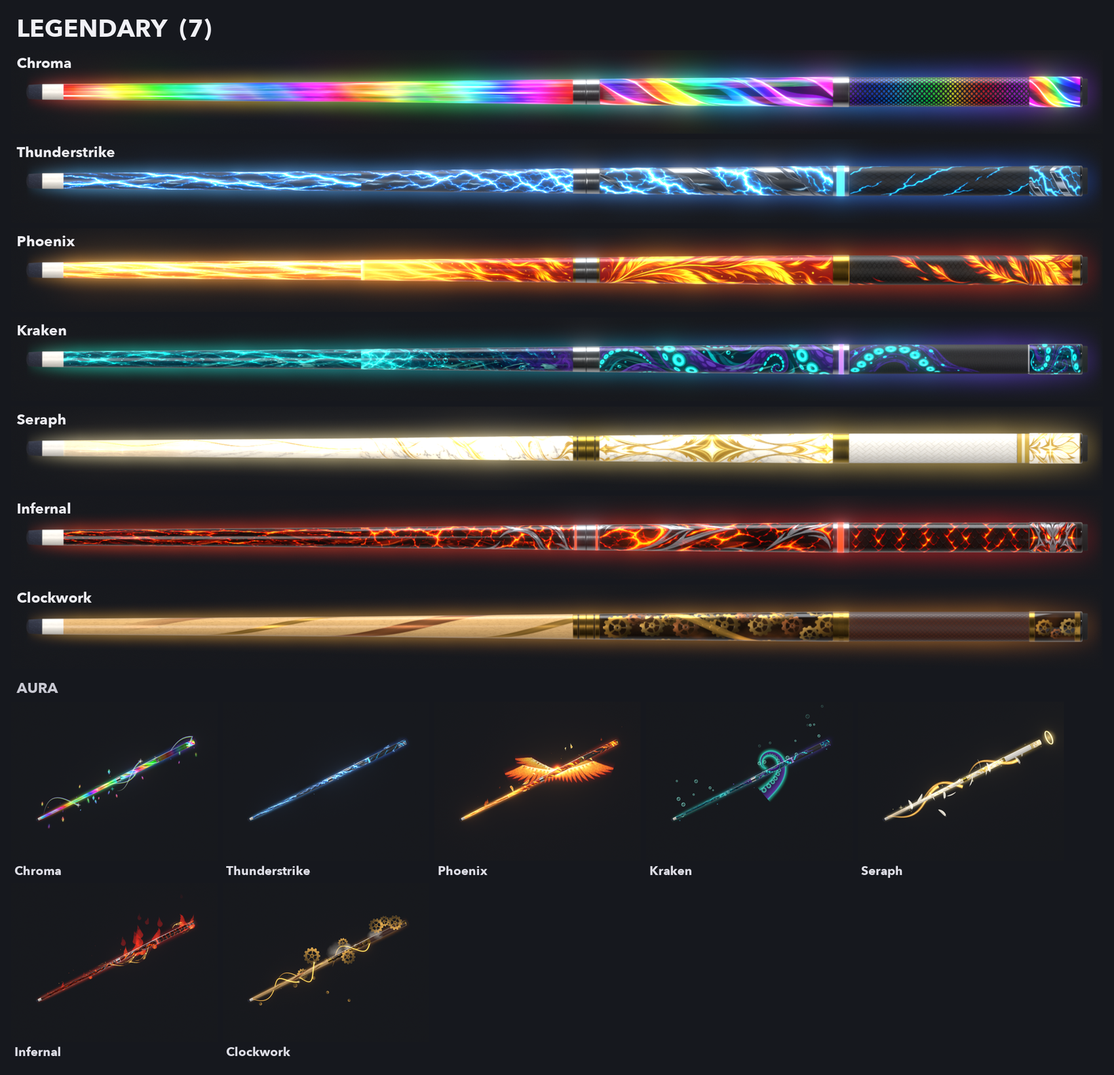
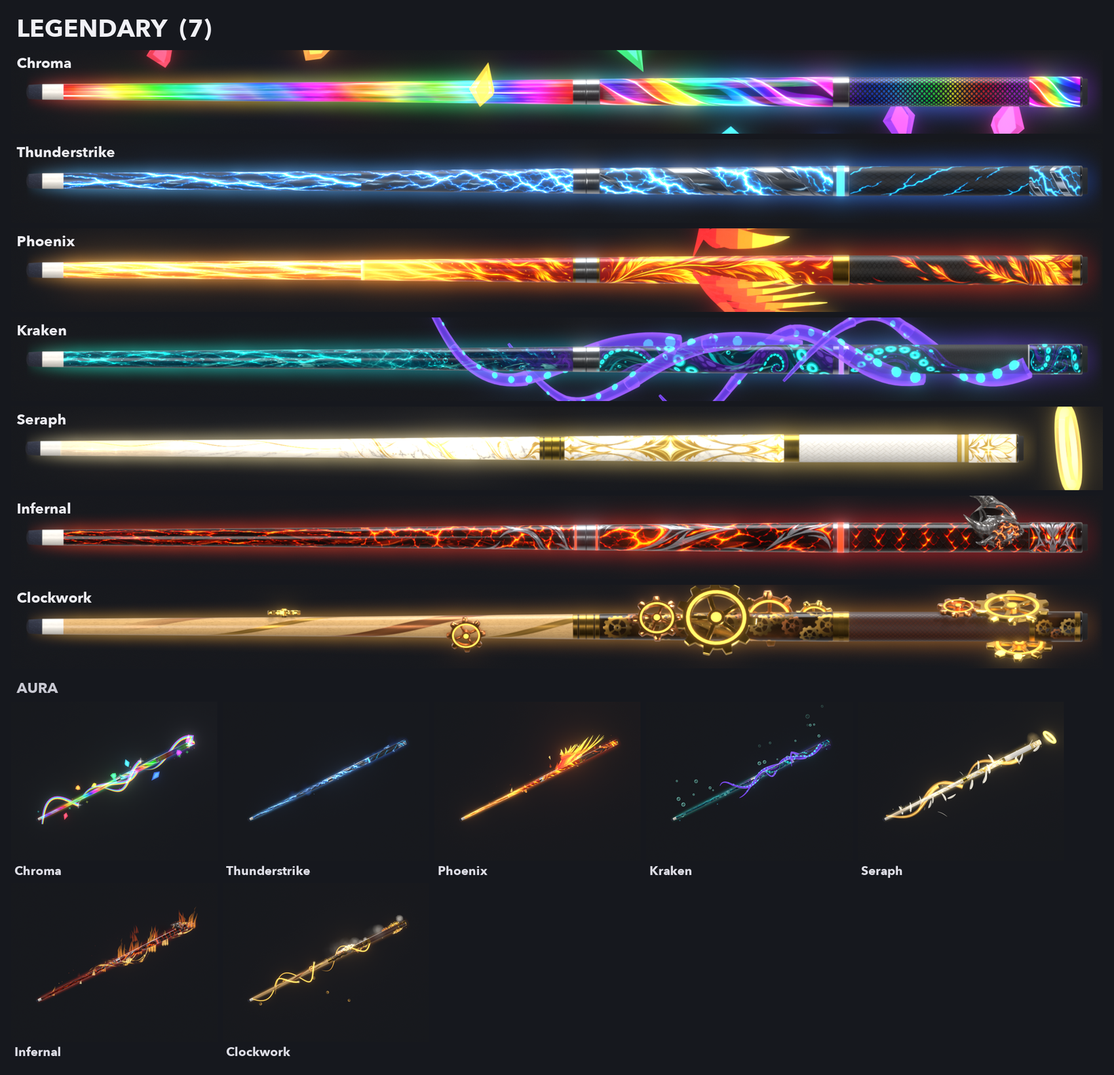
Cue skins: trail colours hold over the felt (deep reds fully blended, Master violet and wider), review rows final, tier sheets regenerated

diff --git a/tools/cue_trail_pass.py b/tools/cue_trail_pass.py
@@ -35,6 +35,10 @@ PLAIN_LE = 0.5             # untextured trails: blended enough that their colour
 WARM_LE = 0.2              # warm trails (red, orange, gold): nearly all blended, see warmth()
 WARM_RB = 80               # warm: red the strongest channel of the seen colour, above blue by this
 CORE_WIDTH = 0.2           # of the trail's width
+RED_BRIGHTNESS = 1.2       # deep red trails: see deep_red()
+# textured trails whose body is a dark colour: added onto the bright felt it vanished and only the
+# pale centre showed (Master read as a thin white line), so mostly blended
+BLENDED = {'master_cue': 0.35}
 # dark trails: a black body that must read as black (their brightness comes from the core); named
 # rather than judged from LightEmission, which the warm cap below lowers
 DARK = {'eclipse', 'infernal', 'kraken', 'void', 'grandmaster_cue'}
@@ -118,7 +122,22 @@ def apply(skin):
     core['LightEmission'] = WARM_LE if is_warm or is_warm_rgb(core['Color']) else CORE_LE
     core['Brightness'] = CORE_BRIGHTNESS
     tr['Core'] = core
+    if skin.get('id') in BLENDED:
+        tr['LightEmission'] = BLENDED[skin['id']]
+    if deep_red(tr):
+        # a deep red trail read pink over the blue felt even at WARM_LE (Brightness above 1 pushes
+        # it toward the additive look): fully blended and no brighter than its colour
+        tr['LightEmission'] = 0.0
+        tr['Brightness'] = min(tr['Brightness'], RED_BRIGHTNESS)
+        core['LightEmission'] = 0.0
+        core['Brightness'] = RED_BRIGHTNESS
     return True
+
+
+def deep_red(tr):
+    """Red the trail's seen colour, green and blue both well below it (not orange or pink)."""
+    r, g, b = seen_colour(tr)
+    return r > 180 and g < 0.3 * r and b < 0.3 * r
 
 
 def main():

diff --git a/tools/cue_vfx_upgrades.py b/tools/cue_vfx_upgrades.py
@@ -941,6 +941,8 @@ def master_cue(d):
                 'wider glow.')
     # a textured trail's core had the white tint and drowned the texture's colour: its own colour
     d['vfx']['Style']['Trail']['Core']['Color'] = [205, 150, 255]
+    d['vfx']['Style']['Trail']['Colors'] = [[205, 150, 255], [175, 110, 255]]   # untinted it read white
+    d['vfx']['Style']['Trail']['WidthStuds'] = 0.5     # its texture is solid only in the middle
 
 
 def grandmaster_cue(d):

diff --git a/docs/prompts/CUE_SKINS_REVIEW.md b/docs/prompts/CUE_SKINS_REVIEW.md
@@ -37,14 +37,14 @@ the concept crops, **mix** = both. Particle rates are per cue (in hand); the bac
 | blaze | Blaze | Rare | skins/blaze/sheet.png, clip.mp4 | proc: charred charcoal plates with wood grain split by glowing orange ember cracks (forearm, sleeve), dark brown wood shaft with faint ember cracks warming toward the joint, steel collar, glowing orange ring, black crosshatch grip; emissive flickering 1.3-2.3. Aura: flame tongues lick up the whole cue (a 16-frame flame flipbook drawn by script, upright, additive), a flickering orange heat-glow Beam round its outline, embers rising: 20/s (back 10); a flickering firelight. Trail: wisp tinted orange. **Upgraded 2026-09-30:** The flame tongues 40% bigger and longer-lived so they run together, bigger embers, a wider heat glow. The trail 0.9 s with a bright core; the pocket gust mostly in the skin's colours. | |  |
 | frostbite | Frostbite | Rare | skins/frostbite/sheet.png, clip.mp4 | mix: AI forearm (ice glass with frost feathers, cracks and snowflakes), AI butt (frosted grey-white wrap, glacier-shard sleeve); procedural pale icy shaft with a faint glowing crack network; silver collar and ring; the whitest frost glows (0.6-1.0). Aura: cold mist rolls off and sinks, six-armed snowflakes drift down turning, frost glints: 18/s (back 9); an icy frost stream curls round the cue (a curved Beam a script turns). Trail: wisp tinted ice blue. **Upgraded 2026-09-30:** Two icy ribbons of frost wind round the cue, snowflakes nearly twice the size, bigger glints. The trail 0.9 s with a bright core; the pocket gust mostly in the skin's colours. | |  |
 | nature | Nature | Rare | skins/nature/sheet.png, clip.mp4 | AI (all four long panels): light wood wrapped in spiralling vines with leaves and white flowers from shaft to sleeve, a moss wrap, green and yellow rings; steel collar. Aura: leaves tumble down (a 4-frame tumbling flipbook), white blossoms fall turning, pollen floats up: 15.5/s (back 7.75); a green vine of light winds round the cue and slowly turns (two curved Beams: a bright line and a soft haze). Trail: wisp tinted leaf green. **Upgraded 2026-09-30:** Two glowing green vines twine round the cue, leaves and blossoms bigger and more of them. The trail 0.9 s with a bright core; the pocket gust mostly in the skin's colours. | |  |
-| candy | Candy | Rare | skins/candy/sheet.png, clip.mp4 | proc: red-and-white candy-cane spiral with sugar glitter (tip to ring), steel collar, mint / red rings, white sugar-grain wrap, red sleeve with a peppermint pinwheel facing each side, black end. Aura: rainbow sprinkles tumble off and fall (a 16-sprinkle sheet, a random sprinkle per particle), sugar sparkles: 18/s (back 9); a red-and-white candy-stripe ribbon spirals round the cue tip to butt and back (an Orbiter). Trail: wisp tinted red. **Upgraded 2026-09-30:** Two candy-stripe ribbons winding round the cue (wider, longer), sprinkles and sugar sparkles bigger, a faint pink sugar haze. The trail 0.9 s with a bright core; the pocket gust mostly in the skin's colours. | |  |
+| candy | Candy | Rare | skins/candy/sheet.png, clip.mp4 | proc: red-and-white candy-cane spiral with sugar glitter (tip to ring), steel collar, mint / red rings, white sugar-grain wrap, red sleeve with a peppermint pinwheel facing each side, black end. Aura: rainbow sprinkles tumble off and fall (a 16-sprinkle sheet, a random sprinkle per particle), sugar sparkles: 18/s (back 9); a red-and-white candy-stripe ribbon spirals round the cue tip to butt and back (an Orbiter). Trail: wisp tinted red. **Upgraded 2026-09-30:** Two candy-stripe ribbons winding round the cue (wider, longer), sprinkles and sugar sparkles bigger, a faint pink sugar haze. The trail 0.9 s with a bright core; the pocket gust mostly in the skin's colours. The trail fully blended so its red stays red over the blue felt (it read pink). | |  |
 | phantom | Phantom | Rare | skins/phantom/sheet.png, clip.mp4 | mix: AI forearm and sleeve (ghostly teal glass with glowing spirit wisps and a small cartoon ghost; forearm take 2), procedural milky teal shaft with glowing wisps, pale pebbled wrap, silver collar; emissive 0.9-1.7. Aura: small cartoon ghosts rise wobbling and fade (a 4-frame ghost flipbook drawn by script), teal ghost-smoke and spirit motes: 11.3/s (back 5.65); two teal spirit wisps curl round the cue in opposite directions (curved Beams a script turns). Trail: wisp tinted teal. **Upgraded 2026-09-30:** Two pale spirit trails drift round the cue, the ghosts a third bigger and more of them, more smoke and motes. The trail 0.9 s with a bright core; the pocket gust mostly in the skin's colours. | |  |
 | tidal | Tidal | Rare | skins/tidal/sheet.png, clip.mp4 | mix: AI forearm (deep ocean water, caustics, a silver wave line round a pearl, given a pearl lustre) and sleeve (a breaking wave); procedural deep-blue-to-teal caustic shaft; sea-foam stingray-bead wrap; silver collar; the caustics glow faintly. Aura: soap bubbles wobble up, swell and pop, droplets fall: 14/s (back 7); two ribbons of sea water swirl round the cue tip to butt and back (Orbiters). Trail: wisp tinted teal. **Upgraded 2026-09-30:** Three wider water ribbons swirl round the cue, bigger bubbles and droplets, a sea-blue haze. The trail 0.9 s with a bright core; the pocket gust mostly in the skin's colours. | |  |
 | sakura | Sakura | Rare | skins/sakura/sheet.png, clip.mp4 | AI (shaft, shaft end, forearm, sleeve): black lacquer with gold-outlined cherry branches and pink blossoms (gold as metal, blossoms glowing softly); procedural pink pebbled wrap; gold collar and rings. Aura: cherry petals drift and spin down turning over (a 4-frame tumbling flipbook), pink glow motes: 17/s (back 8.5); a pink silk ribbon of light loops slowly round the cue (an Orbiter). Trail: wisp tinted pink. **Upgraded 2026-09-30:** Two glowing silk ribbons now, wider and longer, petals nearly twice as big, a faint blossom haze. The trail 0.9 s with a bright core; the pocket gust mostly in the skin's colours. | |  |
 | shooting_star | Shooting Star | Epic | skins/shooting_star/sheet.png, clip.mp4 | mix: AI forearm (gold four-point compass star with gold comet arcs on a starry navy sky) and AI sleeve (gold star framed by gold arcs), turned 45 degrees to face the viewer, the gold as metal and glowing softly; procedural starry navy shaft with two gold swooshes into the joint; navy snakeskin wrap; gold ring lines; silver collar. Moving: the starfield drifts (overlay Beams of pin stars scrolling along the shaft, forearm and sleeve) and the gold breathes (EmissiveStrength 1.1-1.8). Aura: five shooting stars (Orbiters with a star head and a long gold Trail) fly butt to tip on looping arcs; two gold star streams arc round the cue (curved Beams); gold twinkles, streaking stars and gold dust: 28/s (back 14). Trail: wisp tinted gold. Pocket: gold-tinted gust plus 26 gold five-point stars, twinkles, a gold ring and flash. **Upgraded 2026-09-30:** brighter, longer, wider comet trails, bigger twinkles and star streams; the trail standard (long, bright, its own colour). | The concept's trail is sparkly; plan.json lists no trail, so it is the tinted wisp. |  |
 | magma | Magma | Epic | skins/magma/sheet.png, clip.mp4 | proc: black volcanic rock (domed, pitted, glossy like obsidian) split by molten cracks that run hotter and cooler, all along the cue (sparse near the tip), a rocky wrap with few live cracks, a glowing lava ring between red bands, silver collar. Moving: molten heat crawls along the cue (overlay Beams of soft hot patches and veins) and the lava breathes (EmissiveStrength 1.3-2.5 over 2.6 s). Aura: lava drips fall from under the cue, embers rise, flames lick up, dark smoke rolls up as heat haze: 30/s (back 15); two warm flickering lights. Trail: a molten ribbon (cracked-lava texture) with a hot core and embers shed by the ball (24/s). Pocket: lava-tinted gust plus molten globs thrown up and falling back, a flame burst, embers, smoke, an orange ring and flash. **Upgraded 2026-09-30:** the flames are flame tongues in hellfire colours (the tinted fire sheet read as drops), bigger and denser; bigger lava drips; the trail standard (long, bright, its own colour). | The concept's flames are bigger; ours are kept smaller than Blaze's so the two read differently. |  |
 | toxic | Toxic | Epic | skins/toxic/sheet.png, clip.mp4 | proc: acid-green goo glowing through dark glass, full of ringed bubbles (shaft, the back of the forearm, the sleeve window between black rims); black-and-yellow hazard stripes over the front of the forearm; black snakeskin wrap crossed by two yellow helical bands; glowing yellow ring; silver collar. Moving: bubbles rise toward the tip (overlay Beams of ring bubbles) and the goo's glow pulses (1.2-2.0 over 1.8 s). Aura: big green bubbles rise, wobble and pop (a bubble-to-pop flipbook), goo drips fall, green fumes rise: 23/s (back 11.5); a faint green halo Beam; a green light. Trail: a dripping goo ribbon with a pale core, goo drops left on the cloth (14/s). Pocket: default gust. **Upgraded 2026-09-30:** bigger, denser bubbles and fumes, bigger goo drips, a green haze; the trail standard (long, bright, its own colour). | The concept's hazard stripes cut diagonally; ours end on a wave so the cut joins round the cue. |  |
-| blood_moon | Blood Moon | Epic | skins/blood_moon/sheet.png, clip.mp4 | proc: black lacquer with crimson smoke and bright curling filaments (thickening to the joint on the shaft), black snakeskin wrap with three thin glowing red lines, glowing red rings, sleeve with red clouds and a red full moon (maria and craters) on each side, silver collar. Moving: red mist drifts (overlay Beams of red smoke) and the glow swells slowly (1.1-2.0 over 5 s). Aura: crimson mist billows up all along (Bloodlit-style), red motes rise, two red tendrils curl round the cue (curved Beams a script turns), a red glow over the moon: 18.8/s (back 9.4); a red light. Trail: wisp tinted crimson. Pocket: crimson gust plus a red moon rising out of the pocket, three crimson rings pulsing out like a heartbeat, red mist, a red flash. **Upgraded 2026-09-30:** the red mist read as blobs: gone; red flame tongues lick off the cue and red arcs crackle round it (the concept's red energy); the trail standard (long, bright, its own colour). | |  |
+| blood_moon | Blood Moon | Epic | skins/blood_moon/sheet.png, clip.mp4 | proc: black lacquer with crimson smoke and bright curling filaments (thickening to the joint on the shaft), black snakeskin wrap with three thin glowing red lines, glowing red rings, sleeve with red clouds and a red full moon (maria and craters) on each side, silver collar. Moving: red mist drifts (overlay Beams of red smoke) and the glow swells slowly (1.1-2.0 over 5 s). Aura: crimson mist billows up all along (Bloodlit-style), red motes rise, two red tendrils curl round the cue (curved Beams a script turns), a red glow over the moon: 18.8/s (back 9.4); a red light. Trail: wisp tinted crimson. Pocket: crimson gust plus a red moon rising out of the pocket, three crimson rings pulsing out like a heartbeat, red mist, a red flash. **Upgraded 2026-09-30:** the red mist read as blobs: gone; red flame tongues lick off the cue and red arcs crackle round it (the concept's red energy); the trail standard (long, bright, its own colour). The trail fully blended so its red stays red over the blue felt (it read pink). | |  |
 | prism | Prism | Epic | skins/prism/sheet.png, clip.mp4 | proc: cut crystal: a shaft of flat facets from deep blue to white with rainbow fire on a few, bright facet edges; forearm (two diamonds) and sleeve (one) a satin silver lattice holding diamond-cut gems with star glints; pearly white snakeskin wrap; silver collar and ring; black end. Moving: rainbow streaks race through the crystal (overlay Beams of slanted spectral bars) and the fire pulses (1.1-1.9). Aura: rainbow prism glints blink all over, faceted shards float and turn, two rainbow refraction streaks spiral up and down (Orbiters with a spectrum Trail): 21/s (back 10.5); a cool light. Trail: wisp tinted ice. Pocket: ice/pink/mint gust plus 24 crystal shards, rainbow glints, spectral rays, a white ring and flash. **Upgraded 2026-09-30:** bigger crystal shards and glints, four refraction ribbons with long spectrum tails, a pale haze; the trail standard (long, bright, its own colour). | The crystal is painted, not see-through (Roblox's SurfaceAppearance is opaque here). |  |
 | aurora | Aurora | Epic | skins/aurora/sheet.png, clip.mp4 | proc: a dark night-sky cue with green, teal, blue and violet aurora ribbons with silky streaks from shaft to sleeve, faint stars, black snakeskin wrap, an iridescent glowing ring, silver collar. Moving: the ribbons flow (overlay Beams of aurora ribbons scrolling along) and breathe (1.2-2.0 over 4 s). Aura: three aurora ribbons spiral round the cue (Orbiters trailing long aurora-textured Trails), soft light motes and sparkles: 19/s (back 9.5); a teal light. Trail: a wide aurora-banded ribbon with a teal core and motes (12/s). Pocket: default gust. **Upgraded 2026-09-30:** four ribbons (one more), twice as wide and further out, bigger motes, a green-to-violet veil of light; the trail standard (long, bright, its own colour). | |  |
 | disco | Disco | Epic | skins/disco/sheet.png, clip.mp4 | proc: satin mirror tiles shaft to sleeve (smaller on the shaft), a few catching a white reflection, clumps lit pink, cyan, yellow and blue and glowing; black wrap full of multicolour glitter; mirror-tiled glowing ring; silver collar. Moving: coloured spots sweep across the mirrors (overlay Beams, the sleeve's the other way) and the lit tiles pulse on a 120 bpm beat. Aura: four coloured light spots circle the cue fast while drifting up and down (Orbiters with glowing heads), white mirror glints, coloured specks turning in the air: 28/s (back 14); two coloured lights on the beat. Trail: wisp tinted pink. Pocket: pink/cyan/yellow gust plus 40 pieces of confetti, coloured light rays, a pink ring and white flash. **Upgraded 2026-09-30:** bigger light specks and mirror glints, the spotlights brighter with longer tails; the trail standard (long, bright, its own colour). | The concept's forearm mirrors are cut in diamonds; ours are square tiles all along, like a mirror ball. |  |
@@ -61,14 +61,14 @@ the concept crops, **mix** = both. Particle rates are per cue (in hand); the bac
 | apex | Apex | Mythic | skins/apex/sheet.png, clip.mp4 | mix: OpenAI on all four long panels (brushed steel shaft with angular orange stripes and cyan light lines, black carbon forearm of orange armour plates and cyan circuit strips, a black hex-scale grip, a gunmetal sleeve with an orange band), gunmetal joint with two glowing cyan bands, glowing cyan ring. **3D piece** (pieces/apex, 9.4k tris, scripted): a robotic claw arm on the butt: gunmetal housing with bevelled orange armour plates, cyan light slots, amber lights, three thruster vents, a cyan lens in a turning notched bezel, three two-jointed claws (orange armour, steel talons with cyan edges) that flex open and snap shut every 3 s. Moving: the claw clicks, thrusters flare back along the cue (orange jet flames), a flickering vent light, pulsing cyan emissive. Aura 40/s: holographic HUD rings slide along the cue lying round it (cyan tip to butt, orange butt to tip, own ring textures, VelocityPerpendicular), scan pulses open along it, cyan data motes, orange embers, two circuit-trace runners (Orbiters), cyan glow. Trail: jet exhaust (own texture: cyan core with shock diamonds in orange flame), cyan and orange afterimage rings, sparks. Pocket 1.5 s: a targeting reticle closes in and locks (own 16-frame flipbook), then the blast: a cyan energy column, orange and cyan shards, a HUD ring, sparks, cyan flash. **Upgraded 2026-09-30:** twice the HUD rings, larger and brighter (five or six along the cue at once), twice the orange embers from the forearm back, thicker circuit-trace runners; ball trail 1.2 s with a bright core, the afterimage rings bigger and hanging on longer. | Three claws, not the concept's four; the HUD rings are particles, so they appear and slide rather than stand still round the cue. |  |
 | eclipse | Eclipse | Secret | skins/eclipse/sheet.png, clip.mp4 | mix: OpenAI on all four long panels (glossy black obsidian twisted with black-chrome ribbons and a winding molten-gold line, a forearm of obsidian and chrome ribbons veined with molten gold, a black engraved grip with gold cracks, a black sleeve with gold bands), chrome collar with gold bands, gold ring, black end; the molten gold glows and swells. **3D piece** (pieces/eclipse, 16.6k tris, scripted): a floating glossy black sphere past the butt on a black cup with gold rings and four slender gold prongs, two glowing orbit rings precessing round it, a cratered silver moon orbiting it, obsidian shards drifting round the mount. Moving: the corona blazes (own corona texture on camera-facing particles centred on the sphere, ZOffset its radius, so it rings the outline from every side) and solar prominences loop up off the rim and snap (own 16-frame flipbook). Aura 40.5/s: corona and flares, corona sparks, gold sparks along the cue, gold-lit obsidian chips drifting, the air darkening slightly (black smoke), three gold orbit loops with small eclipses at their heads (Orbiters), gold glow and light. Trail: half gold, half black light (own texture), obsidian chips, gold sparks, small eclipses. Pocket 1.5 s: a dark ring pulses out flat over the pocket twice, a black eclipse swells above it and its corona bursts with prominences, a gold light column, obsidian shards and sparks blast out, gold ring, gold flash. **Upgraded 2026-09-30:** molten-gold lightning crawling and leaping over the whole cue (Arcs), gold fire and a faint gold haze round the forearm and butt, the orbit rings three times wider with brighter trails, smooth 64-frame flares; ball trail 1.2 s with a bright core and gold fire peeling off the ball; pocket: the black eclipse now fills its corona in front of the gold column, radiating gold light streaks instead of prominences. **Reworked 2026-09-30 (designer: space, orbital, galaxy vibes; the gold lightning was lazy):** the Arcs and gold fire are gone; the eclipse sphere is bigger (radius 0.36) in front of a slowly turning spiral galaxy glow; four gold orbital rings circle the cue tilted every way like an atom's orbits, each glowing, precessing, with a planet running round it, and an asteroid belt of ten dark rocks orbits the cue, tumbling (all 3D in the piece); twinkling stars and warm nebula haze; longer orbit trails. **Giant eclipse 2026-09-30 (designer, the concept's aura):** behind the cue's back half a giant eclipse about half the cue across (a black disc 3.6 studs wide in a razor-thin white-gold ring, fiery wisps churning off it; camera-facing sprites made for it), the galaxy turning behind it; two huge gold orbits sweep round the cue and the eclipse, turning slowly (3D). Gold sparks 18 to 16 a second to stay within 60. | The corona is particles, not part of the 3D piece (a ring round a sphere only reads from one side); the concept's small eclipses along the forearm are the Orbiter heads, not painted. |  |
 | starter_cue | Starter Cue | Exclusive | skins/starter_cue/sheet.png, clip.mp4 | mix: cream maple shaft with four slim sky-blue points edged in white and small white diamonds (proc), OpenAI forearm (sky-blue gloss with white points and a white diamond) and butt (a yellow knurled grip, a white sleeve with blue points and a little 8-ball emblem), silver collar, glowing blue ring, black end. VFX as plan.json lists: the blue ring, the wisp tinted blue. | The concept sheet also draws a blue aura, trail and pocket burst; plan.json (which the tier rules follow for these cues) lists only the ring and a tinted wisp, so that is what it has. |  |
-| vip_cue | VIP Cue | Exclusive | skins/vip_cue/sheet.png, clip.mp4 | mix: OpenAI on all four long panels (black lacquer with gold swirls and a thin iridescent line, gold art-deco diamond frames with holographic gems, a black quilted grip with gold stars, a gold-framed gem on the sleeve), gold collar, a gold crown emblem on the butt face. Moving: one white glowing ring whose EmissiveTint a script turns round the hue wheel every 3 s (the gems glow a little and shimmer with it). Aura 27/s: gold glitter, rainbow motes, gold crystal diamonds floating (own sprite), two gold loops with rainbow edges (Orbiters), a soft gold glow. Trail: a gold wisp with a rainbow edge (own texture), gold sparkles. Pocket: a small gold crown springs up out of the pocket (own sprite), gold diamonds and sparkles, a gold ring. **Upgraded 2026-09-30:** The gold loops wider with longer tails, bigger glitter, shimmer and diamonds, a wider glow. The trail 1.0 s with a bright core. | The OpenAI panels came out a flatter, more graphic style than the concept (two takes); the gold is real metal in the maps, so it still shines. The crown emblem is on the butt face; the concept's sleeve has a gem, which it keeps. |  |
+| vip_cue | VIP Cue | Exclusive | skins/vip_cue/sheet.png, clip.mp4 | mix: OpenAI on all four long panels (black lacquer with gold swirls and a thin iridescent line, gold art-deco diamond frames with holographic gems, a black quilted grip with gold stars, a gold-framed gem on the sleeve), gold collar, a gold crown emblem on the butt face. Moving: one white glowing ring whose EmissiveTint a script turns round the hue wheel every 3 s (the gems glow a little and shimmer with it). Aura 27/s: gold glitter, rainbow motes, gold crystal diamonds floating (own sprite), two gold loops with rainbow edges (Orbiters), a soft gold glow. Trail: a gold wisp with a rainbow edge (own texture), gold sparkles. Pocket: a small gold crown springs up out of the pocket (own sprite), gold diamonds and sparkles, a gold ring. **Upgraded 2026-09-30:** The gold loops wider with longer tails, bigger glitter, shimmer and diamonds, a wider glow. The trail 1.0 s with a bright core. The trail's core gold (it was white). | The OpenAI panels came out a flatter, more graphic style than the concept (two takes); the gold is real metal in the maps, so it still shines. The crown emblem is on the butt face; the concept's sleeve has a gem, which it keeps. |  |
 | bronze_cue | Bronze Cue | Rank | skins/bronze_cue/sheet.png, clip.mp4 | proc (the shared rank_cue trophy design): a brushed bronze shaft with slanted light streaks, a dark brown forearm with three bold bronze chevron plates pointing to the butt, bronze collar and ring, a dark brown knurled grip, bronze chevrons meeting on the sleeve, the Bronze badge (a shield with an 8-ball) on the butt face. VFX: none (plan.json). | The concept's shaft streaks glow a little; ours are polished strokes in the metal (Bronze has no VFX). |  |
 | silver_cue | Silver Cue | Rank | skins/silver_cue/sheet.png, clip.mp4 | proc: the same design in polished silver on black, a black knurled grip. Moving: a faint shine sweeps along the metal (overlay Beams with the soft slanted band made for the rank cues, scrolling to the butt). | |  |
 | gold_cue | Gold Cue | Rank | skins/gold_cue/sheet.png, clip.mp4 | proc: polished gold on black. Moving: the shine sweep in warm white. Aura 6/s: a few gold sparkles. **Upgraded 2026-09-30:** Sparkles bigger and more of them, a faint gold haze and a gold glow round the cue, a gold trail. The trail 1.0 s with a bright core. | |  |
 | platinum_cue | Platinum Cue | Rank | skins/platinum_cue/sheet.png, clip.mp4 | proc: an ice-white platinum shaft, a pale platinum forearm with glossy ice-blue enamel chevrons and a glowing ice-blue gem, an ice-blue glowing line in the ring, a pale grey grip. Moving: the shine sweep in ice white. Aura 16/s: a shimmer (soft pale-blue motes) with ice-white sparkles. **Upgraded 2026-09-30:** Bigger sparkles and shimmer, an ice-white ribbon winding round the cue, an ice-white trail. The trail 1.0 s with a bright core. | |  |
 | diamond_cue | Diamond Cue | Rank | skins/diamond_cue/sheet.png, clip.mp4 | proc: a platinum shaft set with six glowing blue diamond inlays, a navy forearm with platinum chevrons lined in glowing blue and a blue gem, a blue glowing ring line, a navy knurled grip. Aura 17/s: blue-white diamond sparkles, small blue crystals floating round the handle, a soft blue glow. **Upgraded 2026-09-30:** Bigger sparkles and crystals, two diamond-blue ribbons winding round the cue, a wider glow, a diamond-blue trail. The trail 1.0 s with a bright core. | |  |
-| expert_cue | Expert Cue | Rank | skins/expert_cue/sheet.png, clip.mp4 | proc: dark ruby lacquer wound with fine gold lines (a lozenge lattice), gold chevrons before the collar and on the forearm (each with a glowing ruby line) round a glowing ruby gem, gold collar and rings, a dark red snakeskin grip, the Expert badge with a crown. Aura 28/s: red energy rising (bigger red flames licking up the cue), two red energy runners winding round it (Orbiters), red sparks, a red glow. Trail: the wisp tinted red. **Upgraded 2026-09-30:** Flames a third bigger, the red runners wide enough to see with longer tails, bigger sparks, a wider glow. The trail 1.0 s with a bright core. | |  |
+| expert_cue | Expert Cue | Rank | skins/expert_cue/sheet.png, clip.mp4 | proc: dark ruby lacquer wound with fine gold lines (a lozenge lattice), gold chevrons before the collar and on the forearm (each with a glowing ruby line) round a glowing ruby gem, gold collar and rings, a dark red snakeskin grip, the Expert badge with a crown. Aura 28/s: red energy rising (bigger red flames licking up the cue), two red energy runners winding round it (Orbiters), red sparks, a red glow. Trail: the wisp tinted red. **Upgraded 2026-09-30:** Flames a third bigger, the red runners wide enough to see with longer tails, bigger sparks, a wider glow. The trail 1.0 s with a bright core. The trail a deeper red, fully blended so it stays red over the blue felt (it read pink). | |  |
 | veteran_cue | Veteran Cue | Rank | skins/veteran_cue/sheet.png, clip.mp4 | proc: the Expert design in emerald. Aura 21/s: green spirit flames, two green spirit runners winding round the cue (Orbiters), a few glowing leaves drifting up (as the concept), a green glow. Trail: the wisp tinted green. **Upgraded 2026-09-30:** Flames a third bigger, the spirit runners wide enough to see with longer tails, bigger leaves, a wider glow. The trail 1.0 s with a bright core. | |  |
-| master_cue | Master Cue | Rank | skins/master_cue/sheet.png, clip.mp4 | proc: the design in amethyst, the gold lines glowing a little. Aura 27/s: violet flames, two violet runners winding round the cue (Orbiters), amethyst crystals floating, violet sparkles, a violet glow. Trail: its own purple trail (violet flame streaks round a lilac core, own texture). **Upgraded 2026-09-30:** Flames a third bigger, the violet runners wide with long tails, bigger amethysts and sparkles, a wider glow. The trail 1.0 s with a bright core. | |  |
-| grandmaster_cue | Grandmaster Cue | Rank | skins/grandmaster_cue/sheet.png, clip.mp4 | proc: black lacquer veined with glowing gold lines, gold chevrons lined in glowing gold, a gold gem, a black snakeskin grip. Aura 28/s: a dark aura (black smoke rising, alpha-blended) with gold embers and sparkles, a gold glow. Trail: gold and black (own texture) with gold embers. Pocket: a gold burst (rays, sparks, a gold ring, a gold flash). **Upgraded 2026-09-30:** Two gold ribbons wind through the dark aura, bigger smoke, embers and sparkles, a wider glow. The trail 1.0 s with a bright core. | |  |
+| master_cue | Master Cue | Rank | skins/master_cue/sheet.png, clip.mp4 | proc: the design in amethyst, the gold lines glowing a little. Aura 27/s: violet flames, two violet runners winding round the cue (Orbiters), amethyst crystals floating, violet sparkles, a violet glow. Trail: its own purple trail (violet flame streaks round a lilac core, own texture). **Upgraded 2026-09-30:** Flames a third bigger, the violet runners wide with long tails, bigger amethysts and sparkles, a wider glow. The trail 1.0 s with a bright core. The trail tinted violet with a violet core, wider and mostly blended (untinted and additive it read as a thin white line). | |  |
+| grandmaster_cue | Grandmaster Cue | Rank | skins/grandmaster_cue/sheet.png, clip.mp4 | proc: black lacquer veined with glowing gold lines, gold chevrons lined in glowing gold, a gold gem, a black snakeskin grip. Aura 28/s: a dark aura (black smoke rising, alpha-blended) with gold embers and sparkles, a gold glow. Trail: gold and black (own texture) with gold embers. Pocket: a gold burst (rays, sparks, a gold ring, a gold flash). **Upgraded 2026-09-30:** Two gold ribbons wind through the dark aura, bigger smoke, embers and sparkles, a wider glow. The trail 1.0 s with a bright core. The trail's core gold (a white core had drowned the gold-and-black texture). | |  |
 | reyes_cue | Reyes Cue | Rank | skins/reyes_cue/sheet.png, clip.mp4 | proc: pearl-white lacquer with gold lines and chevrons lined in white, white gems, a white glowing ring line, a white snakeskin grip, the Reyes badge with a crown and gold rays on the butt face. Moving: the rainbow cycles (a script turns EmissiveTint round the hue wheel every 4 s, so the white lines, gems and ring cycle) and gold rays turn behind the badge (own rays sprite). Aura 29.6/s: rainbow motes, white-gold sparkles, vertical gold light rays rising, the turning rays, now and then a rainbow-gemmed crown shimmering above the handle (own sprite), three rainbow loops (Orbiters). Trail: a rainbow trail (own texture) with rainbow sparkles. Pocket: a rainbow crown burst (the crown springs up over turning gold rays, gold streaks, rainbow sparkles, a rainbow ring, a white flash). **Upgraded 2026-09-30:** The rainbow ribbons wider and longer and further out, bigger rainbow light and sparkles, a wider glow. The trail 1.0 s with a bright core. | The concept's huge crown-and-rays aura is scaled down to fit the budget and stay readable in hand. |  |

diff --git a/docs/DECISIONS.md b/docs/DECISIONS.md
@@ -1974,3 +1974,4 @@ caps switch), leaving the plain tiled cloth; no new images needed.
 - 2026-09-30 (assumption): **A Rare's pocket gust is mostly in its own colours** (`Style.Pocket.Colors` from its trail and core, `ColorShare` 0.7). Rares still add no pocket layers of their own (the tier rule); the gust in the potted ball's colour read as unrelated to the cue (red swirls from a blue Frostbite).
 - 2026-09-30 (assumption): **Gold, Platinum and Diamond get a tinted trail** in their metal (gold, ice-white, diamond blue) with the Rank length and core, in place of the shared white wisp, so the trail climbs with the rank as the aura does (Bronze and Silver keep the plain wisp). Rank budgets: Gold to Diamond at most 20 particles a second like a Rare, Veteran and up at most 35 like an Epic.
 - 2026-09-30 (assumption): **The review file's Designer column is for the designer only.** The upgrade notes had been written there; they are moved into the Built column.
+- 2026-09-30 (assumption): **Trail colours hold over the blue felt.** A deep red trail (green and blue under 30% of red: Candy, Blood Moon, Expert) is fully blended (LightEmission 0, Brightness 1.2, `deep_red` in `tools/cue_trail_pass.py`): at any additive share it read pink. A textured trail's core takes the texture's colour, not the white tint (Grandmaster, VIP gold; Master violet, its tint violet too): a white core drowned the texture. The new aura ribbons use the soft glowing band (`trail_soft`), fully additive: the thin wisp texture read as grey threads.
